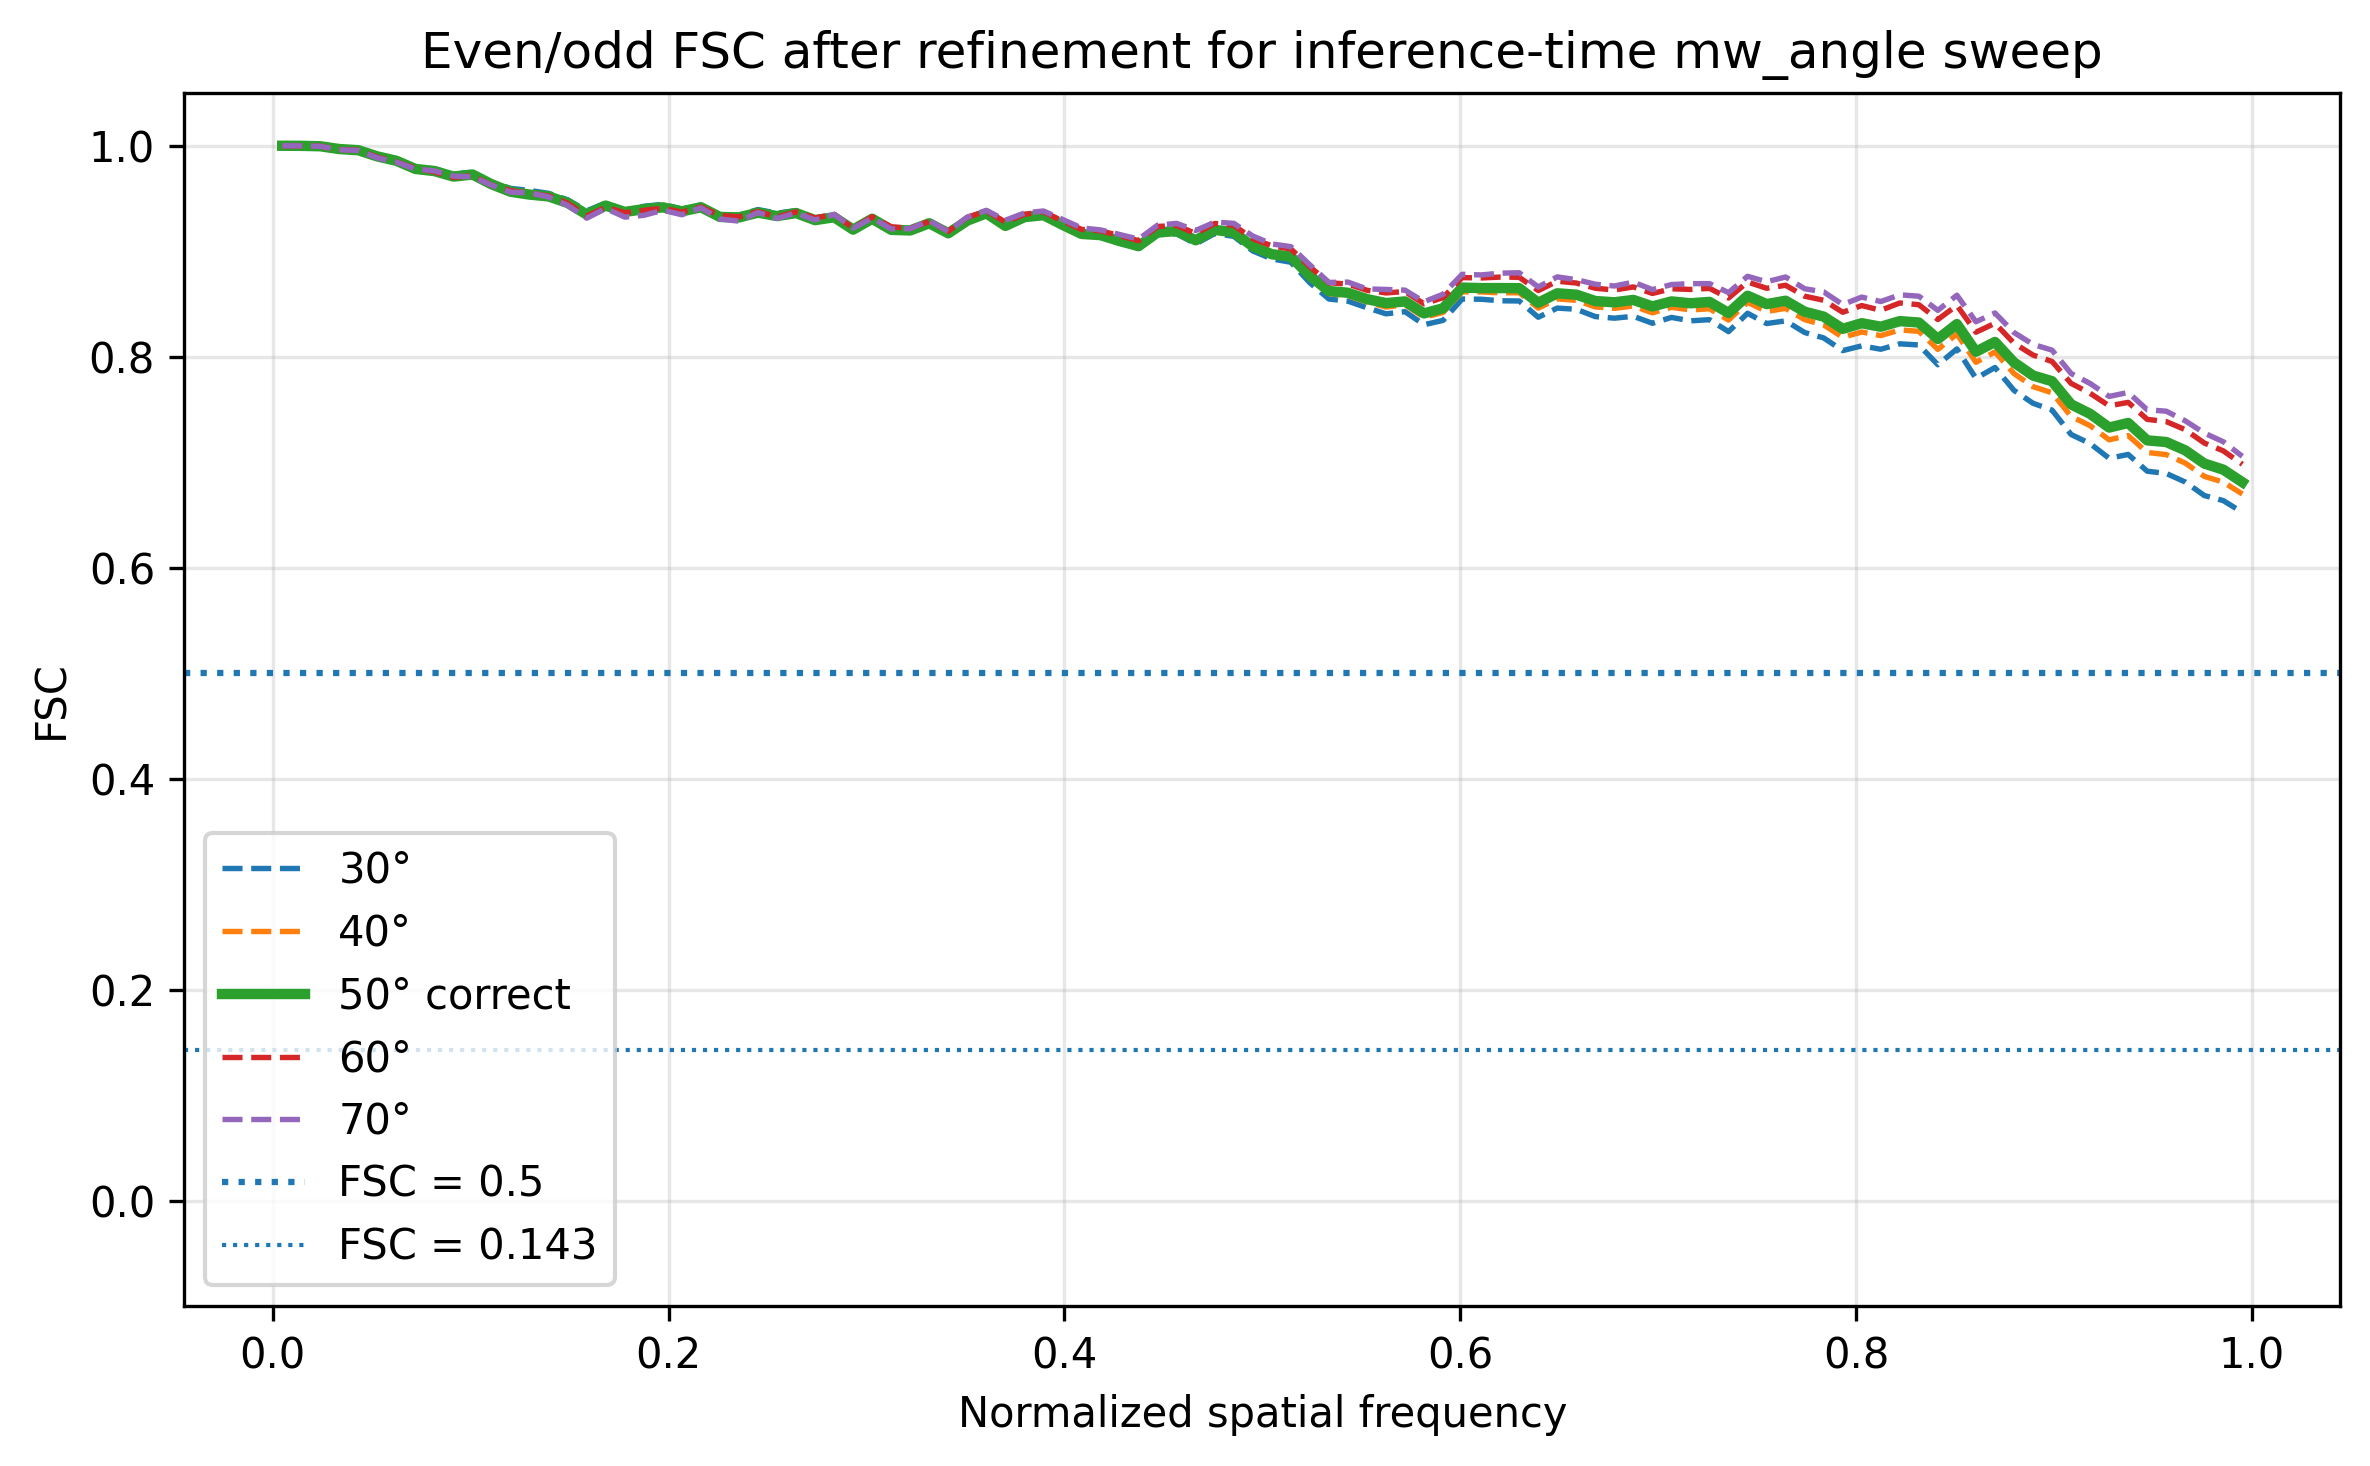
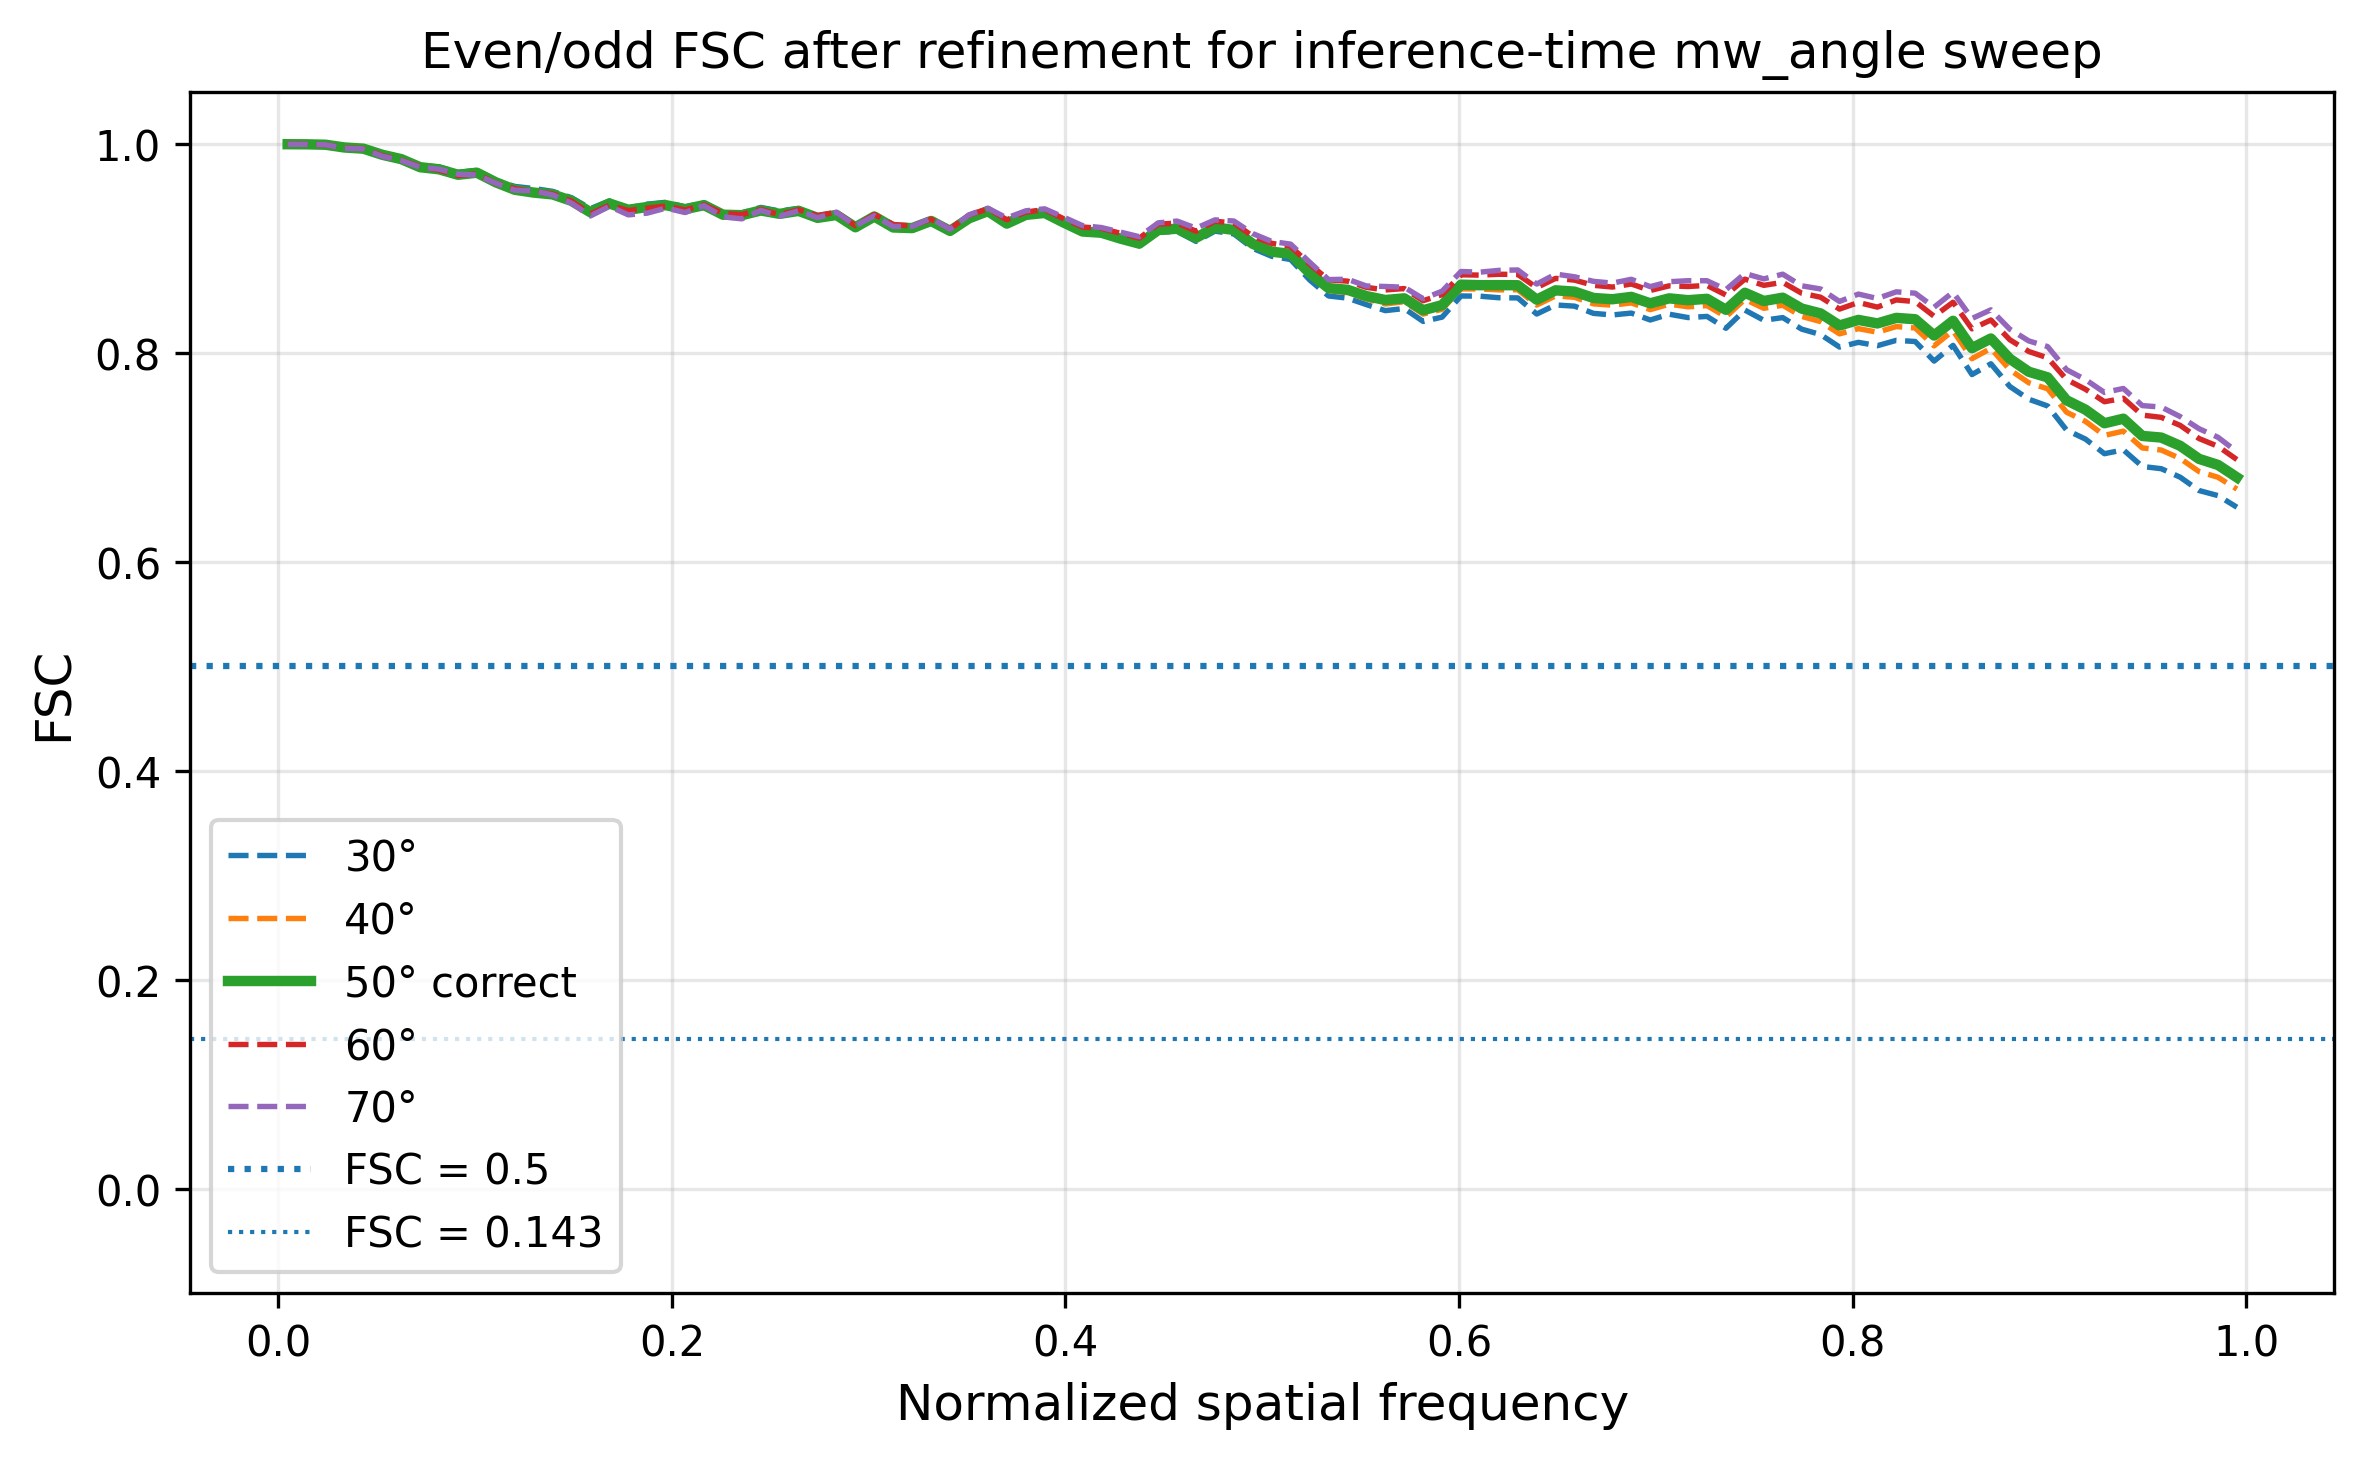
Zoom notebook and Voxel / Resolution calculation

diff --git a/log.md b/log.md
@@ -426,3 +426,10 @@ ASK Wenxuan:
 
 
 ### Technical details & thoughts
+
+
+## 2026-06-18
+
+## 2026-06-19
+
+## 2026-06-22